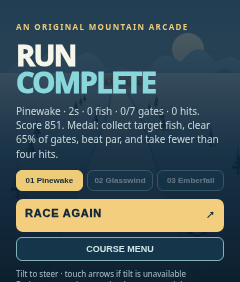
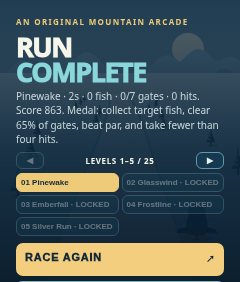
Expand Snowline Sprint to 25 downhill levels

diff --git a/game.js b/game.js
@@ -1,16 +1,32 @@
 import {renderScene} from './renderer.js';
 import {COURSES,center,width,newRun,step,jump,grade,score,clamp} from './engine.js';
 const $=id=>document.getElementById(id),canvas=$('scene'),ctx=canvas.getContext('2d');
-let boostQueued=false;let state='menu',selected=0,unlocked=0,run=null,last=0,tilt=0,tiltBase=null,tiltLive=false,tiltAt=0,noticeUntil=0,keys=new Set(),touch={left:false,right:false,brake:false},audio=null;
-try{unlocked=clamp(Number(localStorage.getItem('snowline-unlocked'))||0,0,2)}catch{}
+let pickerPage=0;let boostQueued=false;let state='menu',selected=0,unlocked=0,run=null,last=0,tilt=0,tiltBase=null,tiltLive=false,tiltAt=0,noticeUntil=0,keys=new Set(),touch={left:false,right:false,brake:false},audio=null;
+try{unlocked=clamp(Number(localStorage.getItem('snowline-unlocked'))||0,0,COURSES.length-1)}catch{}
 function sound(type){try{audio ||= new (window.AudioContext||window.webkitAudioContext)();const o=audio.createOscillator(),g=audio.createGain(),t=audio.currentTime;o.type=type==='hit'?'sawtooth':'sine';o.frequency.setValueAtTime(type==='fish'?580:type==='hit'?130:380,t);o.frequency.exponentialRampToValueAtTime(type==='fish'?900:type==='hit'?75:510,t+.13);g.gain.setValueAtTime(.0001,t);g.gain.exponentialRampToValueAtTime(.085,t+.014);g.gain.exponentialRampToValueAtTime(.0001,t+.16);o.connect(g).connect(audio.destination);o.start(t);o.stop(t+.17)}catch{}}
 function announce(s){$('notice').textContent=s;noticeUntil=performance.now()+1100}
-function picker(){const root=$('picker');root.replaceChildren();COURSES.forEach((c,i)=>{const b=document.createElement('button');b.textContent=`${String(i+1).padStart(2,'0')} ${c.name}`;b.disabled=i>unlocked;b.className=i===selected?'active':'';b.onclick=()=>{selected=i;picker();$('description').textContent=`${c.subtitle}. ${c.gateCount} gates · ${c.target} fish · ${c.time}s par.`};root.append(b)})}
-function menu(mode='menu'){state=mode;$('panel').hidden=false;$('controls').hidden=true;$('hud').hidden=true;$('pause').hidden=true;$('panel').querySelector('h1').innerHTML='SNOWLINE<br><em>SPRINT</em>';$('description').textContent='Three alpine descents. Thread the gates, gather fish, and outrun the clock.';$('primary').innerHTML='START DESCENT <span>↗</span>';$('menuButton').hidden=true;picker()}
+function picker(){
+ const root=$('picker');root.replaceChildren();
+ const pages=Math.ceil(COURSES.length/5);pickerPage=clamp(pickerPage,0,pages-1);
+ const nav=document.createElement('div');nav.className='picker-nav';
+ const prev=document.createElement('button');prev.textContent='◀';prev.disabled=pickerPage===0;prev.onclick=()=>{pickerPage--;picker()};
+ const label=document.createElement('span');label.textContent=`LEVELS ${pickerPage*5+1}–${Math.min(COURSES.length,(pickerPage+1)*5)} / ${COURSES.length}`;
+ const next=document.createElement('button');next.textContent='▶';next.disabled=pickerPage===pages-1;next.onclick=()=>{pickerPage++;picker()};
+ nav.append(prev,label,next);root.append(nav);
+ const list=document.createElement('div');list.className='picker-list';
+ COURSES.slice(pickerPage*5,pickerPage*5+5).forEach((c,j)=>{
+  const i=pickerPage*5+j,b=document.createElement('button');
+  b.textContent=`${String(i+1).padStart(2,'0')} ${c.name}${i>unlocked?' · LOCKED':''}`;
+  b.disabled=i>unlocked;b.className=i===selected?'active':'';
+  b.onclick=()=>{selected=i;picker();describeCourse()};list.append(b)
+ });root.append(list)
+}
+function describeCourse(){const c=COURSES[selected];$('description').textContent=`${c.subtitle}. ${c.length}m · ${c.gateCount} gates · ${c.target} fish · ${c.time}s par.`}
+function menu(mode='menu'){state=mode;$('panel').hidden=false;$('controls').hidden=true;$('hud').hidden=true;$('pause').hidden=true;$('panel').querySelector('h1').innerHTML='SNOWLINE<br><em>SPRINT</em>';$('primary').innerHTML='START DESCENT <span>↗</span>';$('menuButton').hidden=true;pickerPage=Math.floor(selected/5);picker();describeCourse()}
 function start(){run=newRun(selected);tiltBase=null;tiltLive=false;state='racing';$('panel').hidden=true;$('controls').hidden=false;$('hud').hidden=false;$('pause').hidden=false;last=performance.now();announce(COURSES[selected].name.toUpperCase());audio?.resume();requestTilt()}
 function requestTilt(){if(typeof DeviceOrientationEvent==='undefined')return;if(typeof DeviceOrientationEvent.requestPermission==='function'){DeviceOrientationEvent.requestPermission().catch(()=>{});} }
 window.addEventListener('deviceorientation',e=>{if(typeof e.gamma!=='number')return;if(tiltBase===null)tiltBase=e.gamma;tilt=clamp((e.gamma-tiltBase)/24,-1,1);tiltLive=true;tiltAt=performance.now()});
-function finish(){state='results';$('hud').hidden=true;$('controls').hidden=true;$('pause').hidden=true;$('panel').hidden=false;const win=grade(run);if(win&&selected===unlocked&&unlocked<2){unlocked++;try{localStorage.setItem('snowline-unlocked',String(unlocked))}catch{}}picker();$('panel').querySelector('h1').innerHTML=win?'SUMMIT<br><em>CLEARED</em>':'RUN<br><em>COMPLETE</em>';$('description').textContent=`${COURSES[selected].name} · ${Math.ceil(run.elapsed)}s · ${run.fish} fish · ${run.gates}/${run.course.gateCount} gates · ${run.hits} hits. Score ${score(run)}. ${win?'Next course unlocked.':'Medal: collect target fish, clear 65% of gates, beat par, and take fewer than four hits.'}`;$('primary').innerHTML='RACE AGAIN <span>↗</span>';$('menuButton').hidden=false;sound(win?'fish':'hit')}
+function finish(){state='results';$('hud').hidden=true;$('controls').hidden=true;$('pause').hidden=true;$('panel').hidden=false;const win=grade(run);if(win&&selected===unlocked&&unlocked<COURSES.length-1){unlocked++;pickerPage=Math.floor(unlocked/5);try{localStorage.setItem('snowline-unlocked',String(unlocked))}catch{}}picker();$('panel').querySelector('h1').innerHTML=win?'SUMMIT<br><em>CLEARED</em>':'RUN<br><em>COMPLETE</em>';$('description').textContent=`${COURSES[selected].name} · ${Math.ceil(run.elapsed)}s · ${run.fish} fish · ${run.gates}/${run.course.gateCount} gates · ${run.hits} hits. Score ${score(run)}. ${win?(selected<COURSES.length-1?'Next level unlocked.':'All 25 levels cleared!'):'Medal: collect target fish, clear 65% of gates, beat par, and take fewer than four hits.'}`;$('primary').innerHTML='RACE AGAIN <span>↗</span>';$('menuButton').hidden=false;sound(win?'fish':'hit')}
 $('menuButton').onclick=()=>menu();$('primary').onclick=()=>{if(state==='paused'){state='racing';$('panel').hidden=true;last=performance.now();return}start()};$('pause').onclick=()=>{if(state!=='racing')return;state='paused';$('panel').hidden=false;$('panel').querySelector('h1').innerHTML='TAKE A<br><em>BREATH</em>';$('description').textContent='The mountain waits. Tilt to steer, or use the arrows. Hold brake on tight turns.';$('primary').innerHTML='RESUME <span>↗</span>';$('menuButton').hidden=false};
 for(const id of ['left','right','brake']){const b=$(id);b.onpointerdown=e=>{e.preventDefault();b.setPointerCapture(e.pointerId);touch[id]=true};b.onpointerup=b.onpointercancel=()=>touch[id]=false}
 $('boost').onpointerdown=e=>{e.preventDefault();if(state==='racing')boostQueued=true};
@@ -23,5 +39,5 @@ function frame(t){const dt=Math.min(.05,(t-last)/1000||0);last=t;if(state==='rac
  step(run,dt,{steer:steer||((tiltLive&&t-tiltAt<1000&&Math.abs(tilt)>.08)?tilt:0),brake:touch.brake||keys.has('ArrowDown')||keys.has('KeyS'),boost:boostQueued});boostQueued=false;
  for(const e of run.events){if(e==='fish'||e==='gate'||e==='hit'||e==='ramp'){announce({fish:'FISH +85',gate:'CLEAN GATE +160',hit:'ROCK! SLOW DOWN',ramp:'AIRBORNE',boost:'BOOST!',charge:'BOOST +1'}[e]);sound(e)}}if(run.finished)finish();}
  if(t>noticeUntil)$('notice').textContent='';render();requestAnimationFrame(frame)}
-picker();requestAnimationFrame(frame);
+picker();describeCourse();requestAnimationFrame(frame);
 window.__snowline={get state(){return state},get run(){return run},get unlocked(){return unlocked},start,step:(dt,input)=>{if(state==='racing'){step(run,dt,input);if(run.finished)finish()}},jump:()=>jump(run)};

diff --git a/renderer.js b/renderer.js
@@ -3,7 +3,24 @@ const poly=(g,points,fill)=>{g.fillStyle=fill;g.beginPath();g.moveTo(...points[0
 const ellipse=(g,x,y,rx,ry,color)=>{g.fillStyle=color;g.beginPath();g.ellipse(x,y,Math.max(.2,rx),Math.max(.2,ry),0,0,7);g.fill()};
 const rng=n=>{let v=Math.sin(n*127.1+45.6)*43758.5453;return v-Math.floor(v)};
 function pine(g,x,y,s,night){if(s<.25)return;g.save();g.translate(x,y);g.scale(s,s);ellipse(g,3,1,8,2,'#426b8766');g.fillStyle='#513f3b';g.fillRect(-1,-12,2,15);for(let i=0;i<3;i++){let a=7-i*4;poly(g,[[-a,-4-i*5],[0,-23-i*5],[a,-4-i*5]],night?'#173449':'#244c55');poly(g,[[-a*.76,-7-i*5],[0,-23-i*5],[a*.15,-8-i*5]],night?'#66818b':'#c1e1e3')}g.restore()}
-function penguin(g,x,y,air,lean,scale=1){g.save();g.translate(x,y-air*7);g.rotate(lean*.16);g.scale(scale,scale);ellipse(g,4,18+air*7,17,3,'#19435855');ellipse(g,0,6,15,18,'#0b1e29');ellipse(g,0,-4,12,12,'#182c38');poly(g,[[-12,0],[-23,4],[-23,9],[-10,7]],'#152631');poly(g,[[12,0],[23,4],[23,9],[10,7]],'#152631');ellipse(g,0,8,9,12,'#f5f7e9');ellipse(g,-7,-7,4,5,'#fff9eb');ellipse(g,7,-7,4,5,'#fff9eb');ellipse(g,-6,-6,1.8,2.5,'#112838');ellipse(g,7,-6,1.8,2.5,'#112838');poly(g,[[-4,-2],[5,-2],[1,3]],'#f7ac48');ellipse(g,-9,22,7,3,'#f0ad46');ellipse(g,9,22,7,3,'#f0ad46');g.restore()}
+// Tux is prone and sliding away from the chase camera: the head/beak point up
+// the hill on screen, the dark back faces us, and the feet trail near the camera.
+function penguin(g,x,y,air,lean,scale=1,t=0){
+ g.save();g.translate(x,y-air*7);g.rotate(lean*.1);g.scale(scale,scale);
+ const kick=Math.sin(t*.012)*2;
+ ellipse(g,3,21+air*7,20,3,'#19435866');
+ // Sliding belly/snow contact is mostly hidden beneath the dark dorsal silhouette.
+ ellipse(g,0,11,18,11,'#e9f3ed');
+ poly(g,[[-12,10],[-23,13+kick],[-25,18+kick],[-8,18]],'#112733');
+ poly(g,[[12,10],[23,13-kick],[25,18-kick],[8,18]],'#112733');
+ ellipse(g,0,8,13,18,'#132b37');
+ ellipse(g,-6,12,5,10,'#213f4d');ellipse(g,6,12,5,10,'#213f4d');
+ ellipse(g,0,-7,11,10,'#142d3a');
+ // A tiny orange beak peeks past the forward-facing head, not at the camera.
+ poly(g,[[-3,-15],[3,-15],[0,-21]],'#f6ab48');
+ ellipse(g,-7,23+kick*.4,6,3,'#eda64d');ellipse(g,7,23-kick*.4,6,3,'#eda64d');
+ g.restore()
+}
 function drawObject(g,o,x,y,s,night){g.save();g.translate(x,y);g.scale(s,s);if(o.type==='fish'){ellipse(g,0,-8,8,4,'#fbc35f');poly(g,[[5,-8],[13,-13],[13,-3]],'#f5a942');ellipse(g,-3,-9,1,1,'#173d44')}else if(o.type==='boost'){ellipse(g,0,-9,11,11,'#b5f65666');ellipse(g,0,-9,8,8,'#adf768');poly(g,[[2,-16],[-4,-8],[0,-8],[-3,-1],[6,-11],[1,-11]],'#1c4450')}else if(o.type==='gate'){g.strokeStyle=night?'#a7f2dc':'#2c6e81';g.lineWidth=2;for(const a of [-13,13]){g.beginPath();g.moveTo(a,0);g.lineTo(a,-25);g.stroke();ellipse(g,a,-25,2,2,'#d8fff6')}poly(g,[[-13,-24],[13,-24],[13,-19],[-13,-19]],'#b0ef81')}else if(o.type==='rock'){poly(g,[[-10,0],[-6,-9],[1,-14],[7,-10],[12,0]],'#547187');poly(g,[[-6,-9],[1,-14],[4,-10],[-2,-7]],'#effaff')}else{poly(g,[[-13,0],[13,0],[8,-5],[-9,-5]],'#d98c5f');g.fillStyle='#ffe9d2';g.fillRect(-8,-5,15,1)}g.restore()}
 export function renderScene(g,run,course,t){const c=course,z=run?.z||0,night=c.theme==='dusk',ice=c.theme==='ice',sky=g.createLinearGradient(0,0,0,240);sky.addColorStop(0,night?'#13233e':ice?'#467d9d':'#527f99');sky.addColorStop(.55,night?'#d47b7f':'#d8edf0');sky.addColorStop(1,'#d5e5ed');g.fillStyle=sky;g.fillRect(0,0,240,282);
  ellipse(g,188,49,night?12:16,night?12:16,night?'#fff3d5':'#fff9e3');
@@ -16,5 +33,5 @@ export function renderScene(g,run,course,t){const c=course,z=run?.z||0,night=c.t
  // Terrain ribbon texture and offset groves preserve depth without WebGL or downloaded assets.
  for(let n=0;n<50;n++){let zz=Math.floor(z/11)*11+n*11,d=zz-z;if(d<0||d>245)continue;let q=1/(1+d*.029),side=n%2?1:-1,xx=center(zz,c)+side*(width(zz,c)*.5+.11+rng(n*3+c.seed)*.9),p=point(d,xx);pine(g,p.x,p.y,clamp(1.5*q,.16,1.2),night)}
  for(let n=0;n<75;n++){let zz=Math.floor(z/5)*5+n*5,d=zz-z;if(d<0||d>190)continue;let p=point(d,center(zz,c)+(rng(n*17+c.seed)-.5)*width(zz,c)*.8);ellipse(g,p.x,p.y,Math.max(.5,p.q*1.7),Math.max(.3,p.q*.6),night?'#b8b6ce77':'#a2c7d376')}
- if(run){for(const o of run.objects){let d=o.z-z;if(d<0||d>235)continue;let p=point(d,o.x);drawObject(g,o,p.x,p.y,clamp(p.q*1.5,.2,1.4),night)}let rider=point(-8,run.x);if(run.boost>0){for(let i=0;i<7;i++){let x=rider.x+(rng(i*13+t*.002)-.5)*32,y=235+i*7;ellipse(g,x,y,1+i*.2,3,'#b8f86baa')}}penguin(g,rider.x,222,run.air,run.steer,.82)}else penguin(g,120,217,0,0,.85);
+ if(run){for(const o of run.objects){let d=o.z-z;if(d<0||d>235)continue;let p=point(d,o.x);drawObject(g,o,p.x,p.y,clamp(p.q*1.5,.2,1.4),night)}let rider=point(-8,run.x);if(run.boost>0){for(let i=0;i<7;i++){let x=rider.x+(rng(i*13+t*.002)-.5)*32,y=235+i*7;ellipse(g,x,y,1+i*.2,3,'#b8f86baa')}}penguin(g,rider.x,222,run.air,run.steer,.82,t)}else penguin(g,120,217,0,0,.85,t);
 }

diff --git a/index.html b/index.html
@@ -1,1 +1,1 @@
-<!doctype html><html lang="en"><head><meta charset="utf-8"><meta name="viewport" content="width=device-width,initial-scale=1,maximum-scale=1,user-scalable=no,viewport-fit=cover"><meta name="theme-color" content="#101e34"><title>Snowline Sprint</title><link rel="stylesheet" href="style.css"></head><body><main id="shell" aria-label="Snowline Sprint game"><canvas id="scene" width="240" height="282" aria-label="Downhill game course"></canvas><div class="hud" id="hud" hidden><div class="hud-top"><span id="courseHud">PINEWAKE</span><span id="timer">00:00</span></div><div class="meter"><div id="progress"></div></div><div class="hud-bottom"><span id="fishHud">◆ 0/5</span><span id="gateHud">◇ 0/7</span><span id="speedHud">14 m/s</span></div><div class="stamina"><div id="staminaFill"></div></div><div id="boostHud">⚡ 2 BOOSTS</div></div><div id="notice" aria-live="polite"></div><div class="controls" id="controls" hidden><button id="left" aria-label="Steer left">◀</button><button id="brake" aria-label="Hold to brake">BRAKE</button><button id="jump" aria-label="Jump">JUMP</button><button id="boost" aria-label="Boost">⚡</button><button id="right" aria-label="Steer right">▶</button></div><button id="pause" class="pause" aria-label="Pause race" hidden>Ⅱ</button><section class="panel" id="panel"><div class="eyebrow">AN ORIGINAL MOUNTAIN ARCADE</div><h1>SNOWLINE<br><em>SPRINT</em></h1><p id="description">Three alpine descents. Thread the gates, gather fish, and outrun the clock.</p><div class="course-picker" id="picker"></div><button class="primary" id="primary">START DESCENT <span>↗</span></button><button class="secondary" id="menuButton" hidden>COURSE MENU</button><p class="tip" id="tip">Tilt to steer · touch arrows if tilt is unavailable<br>Brake to carve · jump rocks · boost on straights</p></section></main><script type="module" src="game.js"></script></body></html>
+<!doctype html><html lang="en"><head><meta charset="utf-8"><meta name="viewport" content="width=device-width,initial-scale=1,maximum-scale=1,user-scalable=no,viewport-fit=cover"><meta name="theme-color" content="#101e34"><title>Snowline Sprint</title><link rel="stylesheet" href="style.css"></head><body><main id="shell" aria-label="Snowline Sprint game"><canvas id="scene" width="240" height="282" aria-label="Downhill game course"></canvas><div class="hud" id="hud" hidden><div class="hud-top"><span id="courseHud">PINEWAKE</span><span id="timer">00:00</span></div><div class="meter"><div id="progress"></div></div><div class="hud-bottom"><span id="fishHud">◆ 0/5</span><span id="gateHud">◇ 0/7</span><span id="speedHud">14 m/s</span></div><div class="stamina"><div id="staminaFill"></div></div><div id="boostHud">⚡ 2 BOOSTS</div></div><div id="notice" aria-live="polite"></div><div class="controls" id="controls" hidden><button id="left" aria-label="Steer left">◀</button><button id="brake" aria-label="Hold to brake">BRAKE</button><button id="jump" aria-label="Jump">JUMP</button><button id="boost" aria-label="Boost">⚡</button><button id="right" aria-label="Steer right">▶</button></div><button id="pause" class="pause" aria-label="Pause race" hidden>Ⅱ</button><section class="panel" id="panel"><div class="eyebrow">AN ORIGINAL MOUNTAIN ARCADE</div><h1>SNOWLINE<br><em>SPRINT</em></h1><p id="description">25 alpine descents. Thread the gates, gather fish, and outrun the clock.</p><div class="course-picker" id="picker"></div><button class="primary" id="primary">START DESCENT <span>↗</span></button><button class="secondary" id="menuButton" hidden>COURSE MENU</button><p class="tip" id="tip">Tilt to steer · touch arrows if tilt is unavailable<br>Brake to carve · jump rocks · boost on straights</p></section></main><script type="module" src="game.js"></script></body></html>

diff --git a/engine.js b/engine.js
@@ -1,19 +1,37 @@
-export const COURSES = [
-  {name:'Pinewake',subtitle:'A gentle blue-hour descent',length:900,gateCount:7,target:5,time:72,seed:11,theme:'pine'},
-  {name:'Glasswind',subtitle:'The ridge turns sharp',length:1120,gateCount:9,target:7,time:83,seed:37,theme:'ice'},
-  {name:'Emberfall',subtitle:'The mountain after sunset',length:1360,gateCount:11,target:9,time:98,seed:71,theme:'dusk'}
+const NAMES = [
+  'Pinewake','Glasswind','Emberfall','Frostline','Silver Run',
+  'Blue Divide','Needle Pass','Mooncrust','Rime Hollow','Northwind',
+  'Icefall','Wolf Ridge','Cloudbreak','Cold Summit','Aurora Bend',
+  'Whiteout','Cinder Snow','Echo Chute','Sky Needle','Glacier Gate',
+  'Storm Crown','Black Ice','Last Light','High Traverse','Alpine Finale'
 ];
+const SUBTITLES = ['A gentle blue-hour descent','The ridge turns sharp','The mountain after sunset',
+  'Narrow snow between the pines','A quicker silver corridor'];
+export const COURSES = Object.freeze(NAMES.map((name,i)=>Object.freeze({
+  name,subtitle:SUBTITLES[i]||`Stage ${i+1} · ${['pine forest','glacial ridge','sunset slope','high pass','storm crest'][i%5]}`,
+  length:900+90*i,gateCount:7+i,target:5+Math.floor(i*.65),
+  // Par falls from roughly 12.5 to 5 seconds beyond a clean 27 m/s descent.
+  time:Math.ceil((900+90*i)/27+39-i*.35),seed:11+i*29,
+  theme:['pine','ice','dusk','pine','ice'][i%5],difficulty:i
+})));
 export const clamp=(v,a,b)=>Math.min(b,Math.max(a,v));
-export const center=(z,c)=>Math.sin(z*.006+c.seed)*.18+Math.sin(z*.018+c.seed*.19)*.09;
-export const width=(z,c)=>.83-.09*Math.sin(z*.004+c.seed);
+export const center=(z,c)=>{
+  const d=c.difficulty||0;
+  return Math.sin(z*(.006+d*.00009)+c.seed)*(.18+d*.0028)
+    +Math.sin(z*(.018+d*.00015)+c.seed*.19)*(.09+d*.0014);
+};
+export const width=(z,c)=>.83-(c.difficulty||0)*.009-.09*Math.sin(z*.004+c.seed);
 export function makeObjects(c){
   const objects=[];
   for(let i=0;i<c.gateCount;i++){
-    const z=115+i*(c.length-210)/(c.gateCount-1), x=center(z,c)+(i%2 ? .27 : -.27);
+    const z=115+i*(c.length-210)/(c.gateCount-1);
+    const side=i%2?1:-1, x=center(z,c)+side*(.24+(c.difficulty||0)*.002);
     objects.push({type:'gate',z,x,id:`g${i}`});
-    if(i===2||i===c.gateCount-3)objects.push({type:'boost',z:z+12,x:center(z+12,c),id:`boost${i}`});
-    objects.push({type:'fish',z:z+27,x:center(z+27,c)+(i%2 ? -.20:.20),id:`f${i}`});
-    if(i>0)objects.push({type:i%3===0?'ramp':'rock',z:z+53,x:center(z+53,c)+(i%2 ? -.16:.16),id:`h${i}`});
+    if(i===2||i===c.gateCount-3||((c.difficulty||0)>12&&i===Math.floor(c.gateCount/2)))
+      objects.push({type:'boost',z:z+12,x:center(z+12,c),id:`boost${i}`});
+    objects.push({type:'fish',z:z+27,x:center(z+27,c)-side*.16,id:`f${i}`});
+    if(i>0)objects.push({type:i%3===0?'ramp':'rock',z:z+53,
+      x:center(z+53,c)-side*(.14+(c.difficulty||0)*.003),id:`h${i}`});
   }
   for(let i=0;i<4;i++) { const z=80+i*(c.length-160)/4; objects.push({type:'fish',z,x:center(z,c),id:`bonus${i}`}); }
   return objects.sort((a,b)=>a.z-b.z);

diff --git a/tests/engine.test.js b/tests/engine.test.js
@@ -6,3 +6,26 @@ test('fish gate collision and rock penalties register once',()=>{const s=newRun(
 test('campaign completion and score requirements',()=>{const s=newRun();s.z=s.course.length-.2;s.gates=5;s.fish=5;s.elapsed=40;step(s,.05,{});assert.equal(s.finished,true);assert.equal(grade(s),true);assert.ok(score(s)>0);s.hits=4;assert.equal(grade(s),false)});
 test('boost consumes charge and stamina, increases speed, and respects cooldown',()=>{const s=newRun();step(s,.05,{boost:true});assert.equal(s.boostCharges,1);assert.ok(s.stamina<100);const charge=s.boostCharges;step(s,.05,{boost:true});assert.equal(s.boostCharges,charge);const baseline=newRun();for(let i=0;i<10;i++){step(s,.05,{});step(baseline,.05,{})}assert.ok(s.speed>baseline.speed);});
 test('boost pickup restores a charge, fish replenishes stamina',()=>{const s=newRun();s.boostCharges=0;s.stamina=40;for(const type of ['boost','fish']){const o=s.objects.find(x=>x.type===type);s.z=o.z-.1;s.x=o.x;s.speed=20;step(s,.05,{})}assert.equal(s.boostCharges,1);assert.ok(s.stamina>40)});
+
+test('25 unique stages strictly increase in distance, gates, and curve pressure',()=>{
+ assert.equal(COURSES.length,25);
+ assert.equal(new Set(COURSES.map(c=>c.name)).size,25);
+ for(let i=1;i<25;i++){
+  assert.ok(COURSES[i].length>COURSES[i-1].length);
+  assert.ok(COURSES[i].gateCount>COURSES[i-1].gateCount);
+  assert.ok(COURSES[i].target>=COURSES[i-1].target);
+  assert.ok(COURSES[i].difficulty>COURSES[i-1].difficulty);
+  assert.ok(COURSES[i].time/COURSES[i].length<COURSES[i-1].time/COURSES[i-1].length);
+ }
+});
+test('every level can finish and satisfy its medal requirements',()=>{
+ for(let i=0;i<25;i++){
+  const s=newRun(i);let ticks=0;
+  while(!s.finished&&ticks++<6000)step(s,.05,{});
+  assert.ok(s.finished,`level ${i+1} finishes`);
+  assert.ok(s.elapsed<200,`level ${i+1} bounded duration`);
+  const c=COURSES[i],medal=newRun(i);
+  medal.gates=Math.ceil(c.gateCount*.65);medal.fish=c.target;medal.elapsed=c.length/27+9;
+  assert.ok(grade(medal),`level ${i+1} medal feasible at clean race speed`);
+ }
+});

diff --git a/style.css b/style.css
@@ -2,3 +2,5 @@
 .secondary{margin-top:5px;padding:6px;color:#cce6e4;border:1px solid #83b2b9;border-radius:6px;background:#15354a;font-size:9px;font-weight:850}
 
 .stamina{height:3px;background:#17394aaf;border-radius:4px;margin-top:3px;width:75px}.stamina div{height:100%;background:#adf66e;border-radius:4px;width:100%}#boostHud{font-size:8px;color:#bdfc76;margin-top:2px}.controls #boost{background:#b9fb6be0;color:#102b35;min-width:30px}.controls #left,.controls #right{min-width:31px}.controls #brake{min-width:47px}.controls #jump{min-width:41px}.panel{background:linear-gradient(180deg,#0a2032b0,#092338eb 54%,#081a2af8)}
+
+.course-picker{display:block;margin:0 0 7px}.picker-nav{display:flex;align-items:center;justify-content:space-between;margin-bottom:4px;font-size:8px;font-weight:850;letter-spacing:.08em}.picker-nav button{flex:none;width:28px;padding:3px}.picker-list{display:grid;grid-template-columns:1fr 1fr;gap:3px}.picker-list button{text-align:left;white-space:nowrap;overflow:hidden;text-overflow:ellipsis;padding:4px;font-size:8px}.panel{padding-top:16px}.panel h1{font-size:27px;margin:7px 0 5px}.panel p{margin-bottom:6px}

diff --git a/README.md b/README.md
@@ -1,41 +1,29 @@
 # Snowline Sprint
 
-An original, self-contained, portrait-first downhill arcade game inspired by the visual character and mechanics of [Tux Racer · Alpine](https://tux-racer-alpine-reborn.geekthegreybeard.chatgpt.site/) designed for a 240 × 282 Rabbit R1 browser viewport. No build or network dependency. Run `python3 -m http.server 8000` in this directory and open `http://localhost:8000/`. The public release and installation QR are linked below.
-
-## Actual 240 × 282 browser screenshots
-
-Captured from the running game in headless Chromium, not concept art. The results capture fast-forwards to the finish; it is not evidence of a successful human run.
-
-| Menu | Gameplay | Results |
-|---|---|---|
-| ![Menu at 240 by 282](screenshot-menu.png) | ![Gameplay at 240 by 282](screenshot-gameplay.png) | ![Result at 240 by 282](screenshot-results.png) |
+An original, offline-capable portrait downhill arcade game for the Rabbit R1's 240 × 282 browser. The chase view draws Tux belly-down, sliding away from the camera toward the slope; no third-party game assets are bundled. Inspired by the visual character and mechanics of [Tux Racer · Alpine](https://tux-racer-alpine-reborn.geekthegreybeard.chatgpt.site/), not an official Tux Racer product.
 
 ## Play and install
 
-[Play the published release](https://geekthegreybeard.github.io/r1-tux-racer/?release=20260927-snowline). On R1, open **Creations card → Create tab → Add via QR code** and scan this release-specific QR. The QR encodes the JSON Creation card below, not merely a bare website URL. Physical R1 installation has not been verified.
+[Play the 25-level release](https://geekthegreybeard.github.io/r1-tux-racer/?release=20260927-25-levels). On R1, open **Creations card → Create tab → Add via QR code** and scan the release-specific Creation card QR below. Physical R1 installation is unverified.
 
-![Snowline Sprint R1 install QR](snowline-sprint-r1-install-qr.png)
+![Snowline Sprint R1 installation QR](snowline-sprint-r1-install-qr.png)
 
-## Mechanics and campaign
+## Actual 240 × 282 browser screenshots
 
-Three sequentially unlocked courses—Pinewake, Glasswind, Emberfall—have progressively longer, more winding slopes and more gates. Follow the curved snow track; pass through offset slalom gates, pick up fish, jump or dodge rocks, and ride short ramps. The edge slows the penguin. A sampled chase-camera snow ribbon, layered mountain walls, offset pine groves, depth-scaled pickups, and a round flippered penguin bring the reference’s alpine valley and rider silhouette into the small display. Two starting boost charges can be spent on straights; green lightning pickups replenish up to three charges. Boost costs 20 stamina, lasts 0.9 seconds and has a 2.5-second cooldown. Fish restore 12 stamina, rocks cost 18, and stamina slowly recovers. A medal and next-course unlock require target fish, at least 65% of gates, a finish under par, and fewer than four hits. All finishes show fish, gates, hits, time, score and medal state. Score = 160 per gate + 85 per fish + 12 per second under par − 100 per hit − 45 per missed gate. Replay via Race Again; use Course Menu from pause/results to select an unlocked course. Pause/resume in a run. Unlocks persist locally if browser storage permits.
+| Menu | Level 1 race | Level 25 race | Result |
+|---|---|---|---|
+| ![Menu](screenshot-menu.png) | ![Pinewake](screenshot-gameplay.png) | ![Alpine Finale](screenshot-level25-gameplay.png) | ![Results](screenshot-results.png) |
 
-## Controls
+The level-25 screenshot uses a test-only unlocked browser storage state. Results are fast-forwarded to exercise the screen; these screenshots do not establish a human-played clear.
 
-Tilt left/right to steer. Tilt zero is calibrated to the first sensor reading after starting a race; start another run to recalibrate. Stale motion readings expire after one second. The large left/right touch buttons always work and override tilt while held, including on devices without sensors. Hold BRAKE to slow to 9 m/s; tap JUMP to clear rocks; tap ⚡ to boost. Keyboard: left/right or A/D, down or S to brake, Space to jump, Up or W to boost, Escape to pause. Audio consists of short synthesized cues and starts only after user interaction.
+## Campaign and controls
 
-## Reference comparison and remaining compromises
+There are **exactly 25 named, sequentially unlocked levels**, Pinewake through Alpine Finale. Every next level is 90 metres longer and has one more gate; fish targets rise, slopes bend more, the track narrows, gate offsets widen and par time per metre decreases. The five-page level picker shows five stages at a time, with locked stages disabled. The final descent measures 3,060 metres, with 31 gates and a 20-fish target. A medal unlocks the next level: collect target fish, clear at least 65% of gates, finish within par and take fewer than four hits. Unlocks persist in local storage where available. The final medal completes the campaign without inventing another stage.
 
-The supplied live PC reference was inspected in menu and race views, and its local project examined. Its broad open downhill valley, modeled flippered penguin, pine-lined mountains, fish, obstacles, ramps, stamina and boost charge are now recognizable here through original procedural 2D drawing and compact mechanics. Unlike the first R1 release’s flat vertical strip and tiny penguin, the updated screenshot shows a receding chase-camera course and a larger rider. The PC version additionally has six expansive 3D mountains, day/night selection, caves and underwater forks, bobsled routes, shields, health, difficulty settings, CPU/split/online opponents, leaderboard, and a richer audio/lighting system. Those are **not** claimed here: this version has three fixed compact courses, dusk on the final course, solo local progression, small synthesized cues and no borrowed PC assets. On-device R1 sensor mapping, audio and sustained frame rate remain untested.
+Tilt left/right to steer, calibrated at each race start; touch arrows override tilt when held and work if sensors are unavailable. Hold BRAKE to carve, tap JUMP to clear rocks, and tap ⚡ to spend a boost charge. Keyboard: arrows or A/D, S/down to brake, Space to jump, W/up to boost, Escape to pause. Fish restore stamina; rocks slow Tux and drain stamina; green pickups replenish boost charges. The edge slows Tux. Short synthesized audio cues start after interaction.
 
-## Limits
+## Test and implementation notes
 
-At 240 × 282, the touch controls overlay the bottom of the course; this is a CPU-friendly 2D canvas chase projection, not the reference’s WebGL 3D terrain. Orientation permission depends on browser policy; touch remains available. Browser localStorage can be disabled, in which case course unlocks last only for the session. Actual R1 sensor orientation, touch ergonomics and frame rate require on-device acceptance testing. This is a single-player offline game, not network racing.
+Run `npm test` and `npm run test:browser` after `npm install` and `npx playwright install chromium`. Node tests check deterministic layouts, mechanics, all 25 distinct stage specifications, monotonically increasing distance and gate counts, finishability and medal feasibility under a clean-race benchmark. Browser tests exercise 240 × 282 rendering, touch steering, jumping, boosting, pause/resume, results, a qualifying unlock persisted across reload and level-25 selection/start; they write the screenshots above and `screenshot-level25-menu.png`. The browser results fast-forward is **not** a manual balance clear. On-device R1 sensor mapping, touch ergonomics, installation, audio and sustained frame rate remain unverified.
 
-## Tests
-
-Run `npm test` (Node 18+). Tests cover procedural layouts, steering/braking, jump cooldown, boost consumption/cooldown and pickups, collision single-counting, finish and medal logic. Run `npm run test:browser` after `npm install` and `npx playwright install chromium`. Headless Chromium was tested at exactly 240 × 282: menu, start, touch steering, jump, boost, pause/resume, finish/results, and zero page errors. The test writes `screenshot-menu.png`, `screenshot-gameplay.png`, and `screenshot-results.png` in this directory. The result finish is fast-forwarded to exercise the screen; this does not establish human-play balance or R1 hardware compatibility.
-
-## Credits
-
-Original implementation and procedural geometry, scenery, character rendering, UI and Web Audio cues created for this project. The supplied live Alpine Reborn site and local PC source were inspected for high-level mechanics and visual direction; no artwork, source code, media or music was copied. Inspired by the downhill penguin arcade genre, not an official Tux Racer product. No third-party assets.
+This is a compact 2D single-player canvas game, not the PC reference's expansive 3D terrain or multiplayer. The terrain, character, scenery and sound are procedural and original; no PC artwork, code or media was copied. Host the directory with `python3 -m http.server 8000` and open `http://localhost:8000/` for local play. Browser storage may be disabled, in which case unlocks last only for the current session.
